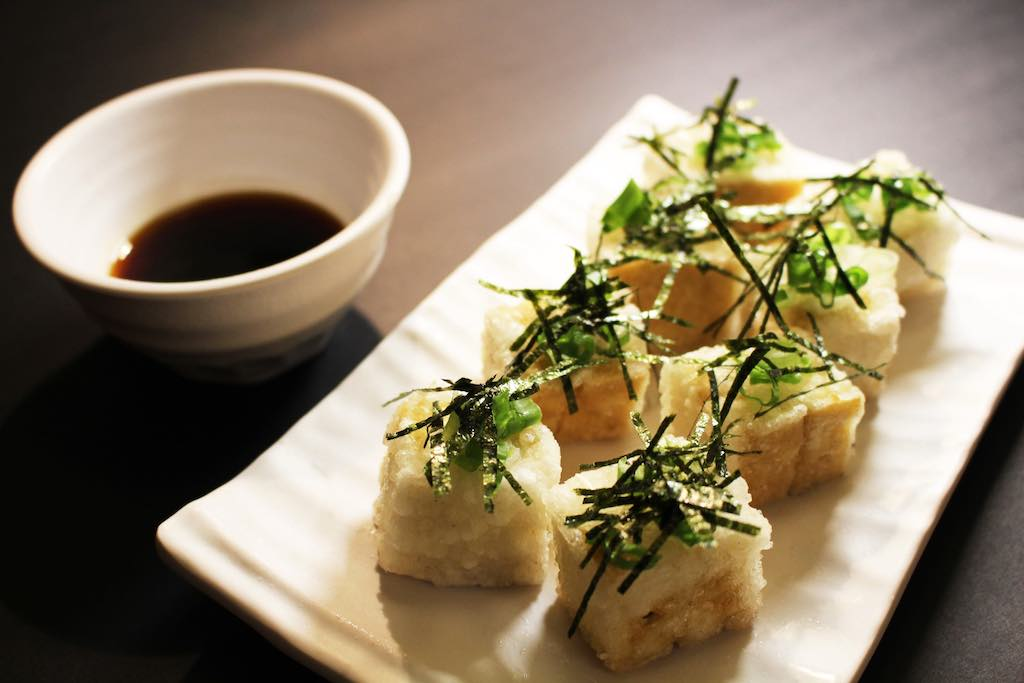
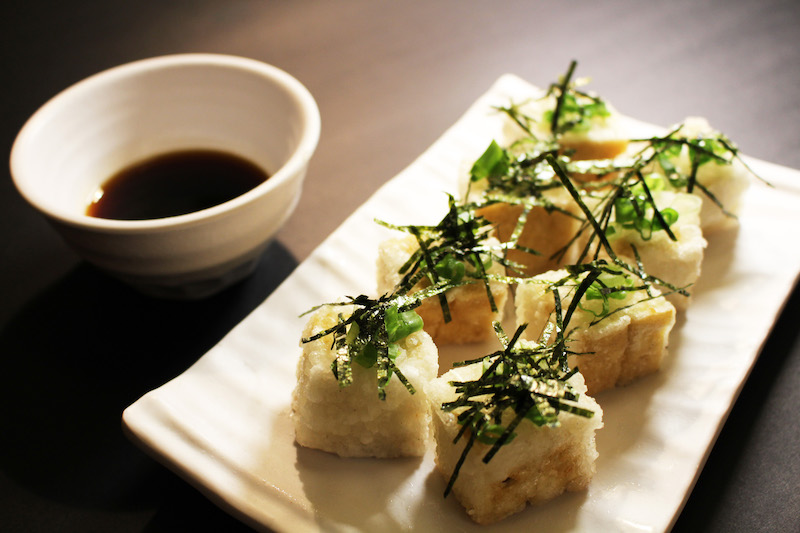
shrink!

diff --git a/flutter_service_worker.js b/flutter_service_worker.js
@@ -4,8 +4,8 @@ const TEMP = 'flutter-temp-cache';
 const CACHE_NAME = 'flutter-app-cache';
 const RESOURCES = {
   "version.json": "659f0968c9adfa580c5b3f3a21acca81",
-"index.html": "ec6562e60fcc2cde2ed73147226b6d20",
-"/": "ec6562e60fcc2cde2ed73147226b6d20",
+"index.html": "7e57e0c5beadaf0aed46b7ba2bb955de",
+"/": "7e57e0c5beadaf0aed46b7ba2bb955de",
 "main.dart.js": "5dc153cff5417db34e4bba2c8f752277",
 "flutter.js": "0816e65a103ba8ba51b174eeeeb2cb67",
 "favicon.png": "5dcef449791fa27946b3d35ad8803796",
@@ -19,29 +19,29 @@ const RESOURCES = {
 "assets/FontManifest.json": "dc3d03800ccca4601324923c0b1d6d57",
 "assets/packages/cupertino_icons/assets/CupertinoIcons.ttf": "6d342eb68f170c97609e9da345464e5e",
 "assets/fonts/MaterialIcons-Regular.otf": "95db9098c58fd6db106f1116bae85a0b",
-"assets/assets/Seafood%2520Udon.jpeg": "cf109bea0db67e3e7a6b3cac1a3bcd8e",
-"assets/assets/Avocado%2520Roll.jpeg": "3638221364f9776b2204b050dc4dccc1",
-"assets/assets/Beef%2520Teriyaki.jpeg": "dc7f356ef1acb986be7655834b49deeb",
-"assets/assets/Spider%2520Roll.jpeg": "c6af3cd5402d949b1648ea72912ee257",
-"assets/assets/Tempura%2520Udon.jpeg": "e832b2a74c3f21a80a8cef0a4f8aa408",
-"assets/assets/Edamame.jpeg": "c27dc97fc66a7cc9b374aff425f20f4a",
-"assets/assets/Sashimi%2520Appetizer.jpeg": "52186b628bdc68f440801842f6560661",
-"assets/assets/Heh%2520Dup%2520Bap.jpeg": "857edcbf9bca350611714e469e931174",
-"assets/assets/Hawaiian%2520Roll.jpeg": "8cbb1881a33f3fbdce7ef075f1a96227",
-"assets/assets/California%2520Roll.jpeg": "3d34a76ca9cbe8609375ed7fc33d619c",
-"assets/assets/Chicken%2520Donburi.jpeg": "3726756a4d192b9b92c1a84af5e34561",
-"assets/assets/Sashimi%2520and%2520Rolls.jpeg": "6dce8cc70ae6a97d72be71a5dbcbae3a",
-"assets/assets/Agedashi%2520Tofu.jpeg": "221e1113751f6f29522663fe3832756d",
-"assets/assets/Dynamite%2520Roll.jpeg": "0b4a9209d332e0c4b62054ba7ef45f4f",
+"assets/assets/Seafood%2520Udon.jpeg": "7ae21543eaeb3b1b55888ac2f16ce163",
+"assets/assets/Avocado%2520Roll.jpeg": "702dd09b247eaef9f0c3a2244c7d7419",
+"assets/assets/Beef%2520Teriyaki.jpeg": "c4562f4b1b31f33006ef0e2ca2f6ccb1",
+"assets/assets/Spider%2520Roll.jpeg": "17c1da9b1d308b787871c738f187a1ff",
+"assets/assets/Tempura%2520Udon.jpeg": "2709937573b696e2483dc58392c1b23f",
+"assets/assets/Edamame.jpeg": "0999a48c0492b2b0d57d8d3838bd005e",
+"assets/assets/Sashimi%2520Appetizer.jpeg": "c620b489a37194ca58da9b90c6332dd8",
+"assets/assets/Heh%2520Dup%2520Bap.jpeg": "26414c7d189d2f3b0a60619d95c97bd0",
+"assets/assets/Hawaiian%2520Roll.jpeg": "0bf8d8fc0b2e34765c12a55bfa313dce",
+"assets/assets/California%2520Roll.jpeg": "d455ebc11b4bd9b20be70d888056f87f",
+"assets/assets/Chicken%2520Donburi.jpeg": "7b0def7eb6a0ac18ab93f3f946e45ace",
+"assets/assets/Sashimi%2520and%2520Rolls.jpeg": "7e9dfc818c7f25eab829614f3168b34f",
+"assets/assets/Agedashi%2520Tofu.jpeg": "156d99eb1e7adbc3ba11d44760e2fbd7",
+"assets/assets/Dynamite%2520Roll.jpeg": "dec27622f7f7d12f4afcf09b93c9297c",
 "assets/assets/logo.png": "61a8373443294489f47b8cf8bff96404",
-"assets/assets/Cucumber%2520Roll.jpeg": "1164a6cfaad5bebb1201f9b531815136",
-"assets/assets/Tempura%2520Mix.jpeg": "eb7a1e89fa83c39412258bbd7332804a",
-"assets/assets/Shrimp%2520Tempura.jpeg": "333f098429bbf6ab9e2874e3f70e22d2",
-"assets/assets/Sashimi%2520and%2520Sushi.jpeg": "3f4f3854c29c36aac78ec4f8f95df967",
-"assets/assets/Sushi%2520Appetizer.jpeg": "d1f94275da2935f54ff6a408dce11e3b",
-"assets/assets/Red%2520Dragon.jpeg": "19b49216efd550b101381a77f0931a74",
-"assets/assets/Bulgogi%2520Lunch%2520Box.jpeg": "3a06826b79ba9d329b1fe1270dd956da",
-"assets/assets/Spicy%2520Salmon%2520Roll.jpeg": "b9e8a5c90de572753d34285c59648bf5",
+"assets/assets/Cucumber%2520Roll.jpeg": "2f8bbc7e0018a1ebce21234b55d2eede",
+"assets/assets/Tempura%2520Mix.jpeg": "f866e0e5bf4d51b5be0f25505aa97e1c",
+"assets/assets/Shrimp%2520Tempura.jpeg": "06befe9031e8e87212ac9e031a3a9467",
+"assets/assets/Sashimi%2520and%2520Sushi.jpeg": "1991c5817da03bec82c4dc47b7d51ac9",
+"assets/assets/Sushi%2520Appetizer.jpeg": "00140acc4b99e82d24606dc3615b2fb1",
+"assets/assets/Red%2520Dragon.jpeg": "fab2d1cdb8940c2303855bf342584012",
+"assets/assets/Bulgogi%2520Lunch%2520Box.jpeg": "f2e4e9b7a71a0d4eae512812be78b235",
+"assets/assets/Spicy%2520Salmon%2520Roll.jpeg": "32c36a668a0b50b697186593e8605324",
 "canvaskit/canvaskit.js": "c2b4e5f3d7a3d82aed024e7249a78487",
 "canvaskit/profiling/canvaskit.js": "ae2949af4efc61d28a4a80fffa1db900",
 "canvaskit/profiling/canvaskit.wasm": "95e736ab31147d1b2c7b25f11d4c32cd",

diff --git a/index.html b/index.html
@@ -34,7 +34,7 @@
 
   <script>
     // The value below is injected by flutter build, do not touch.
-    var serviceWorkerVersion = '3195762283';
+    var serviceWorkerVersion = '2090254812';
   </script>
   <!-- This script adds the flutter initialization JS code -->
   <script src="flutter.js" defer></script>
